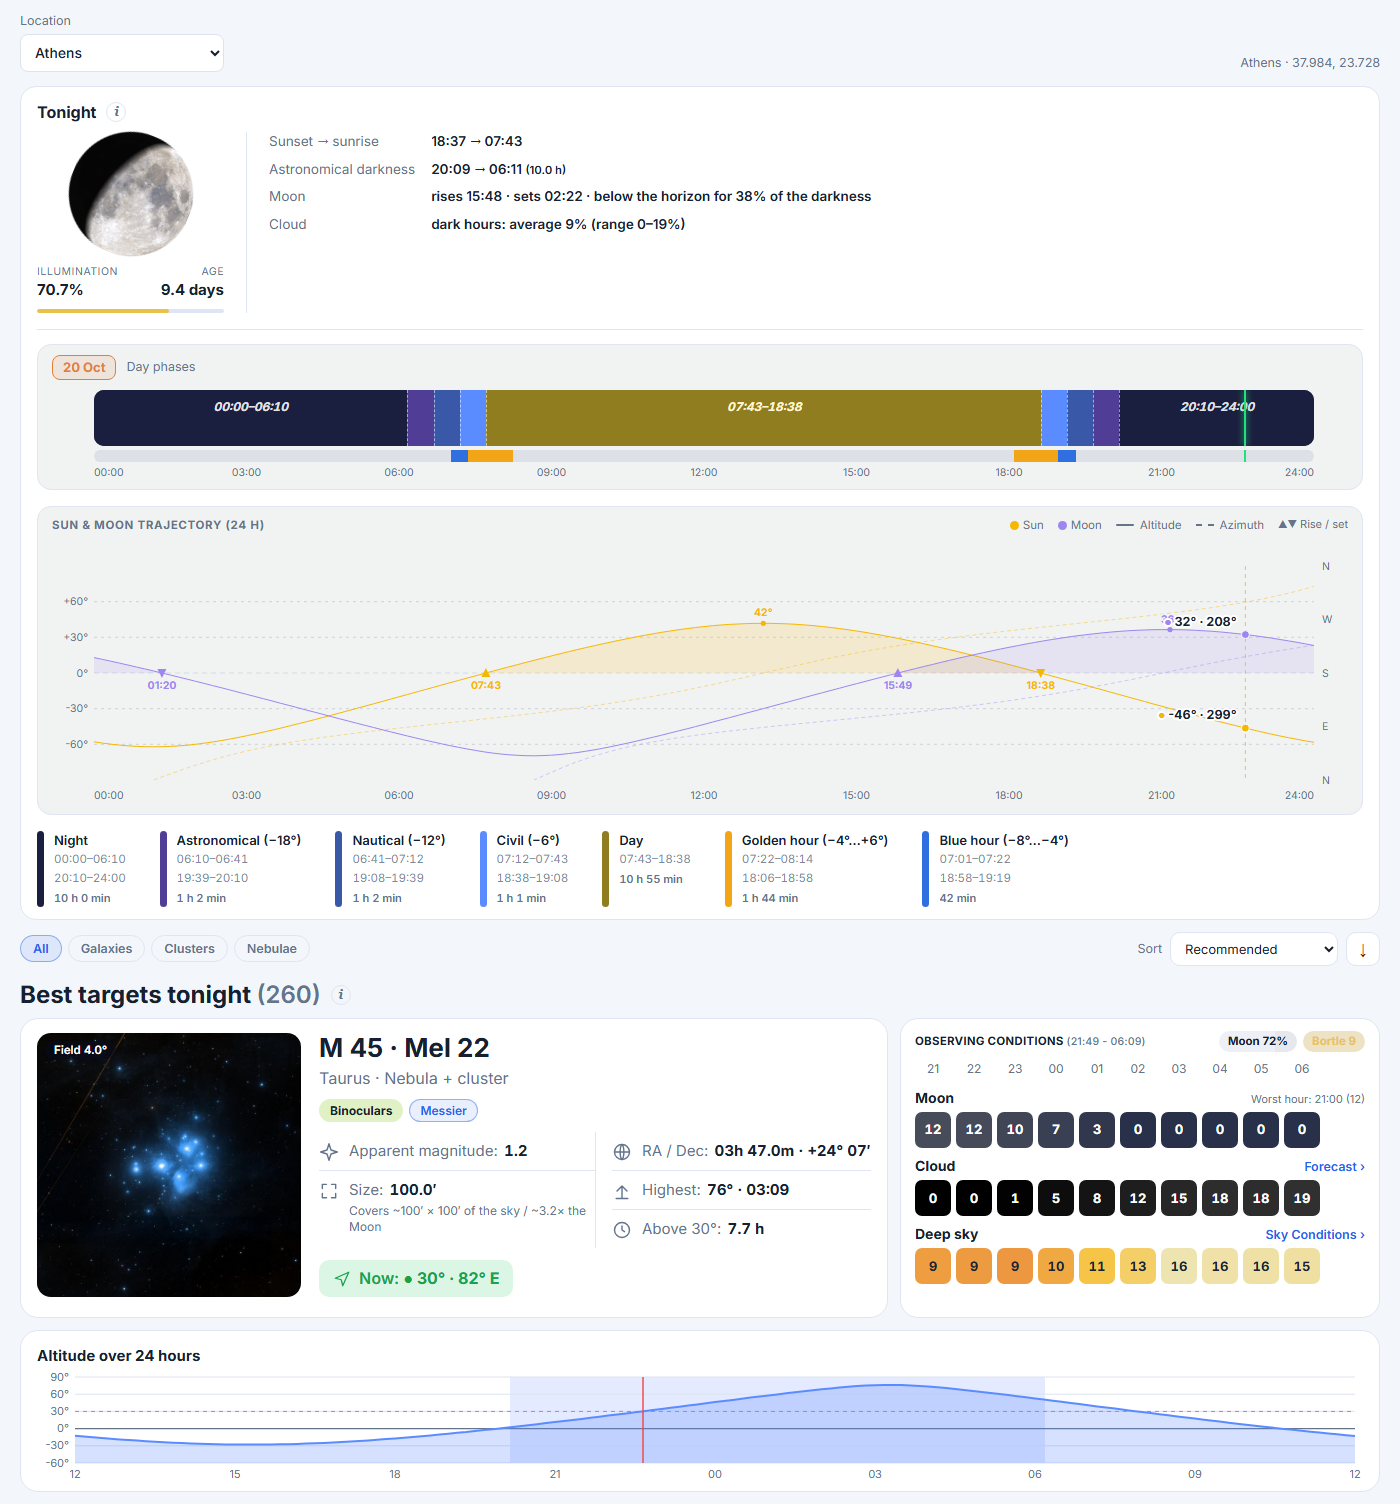
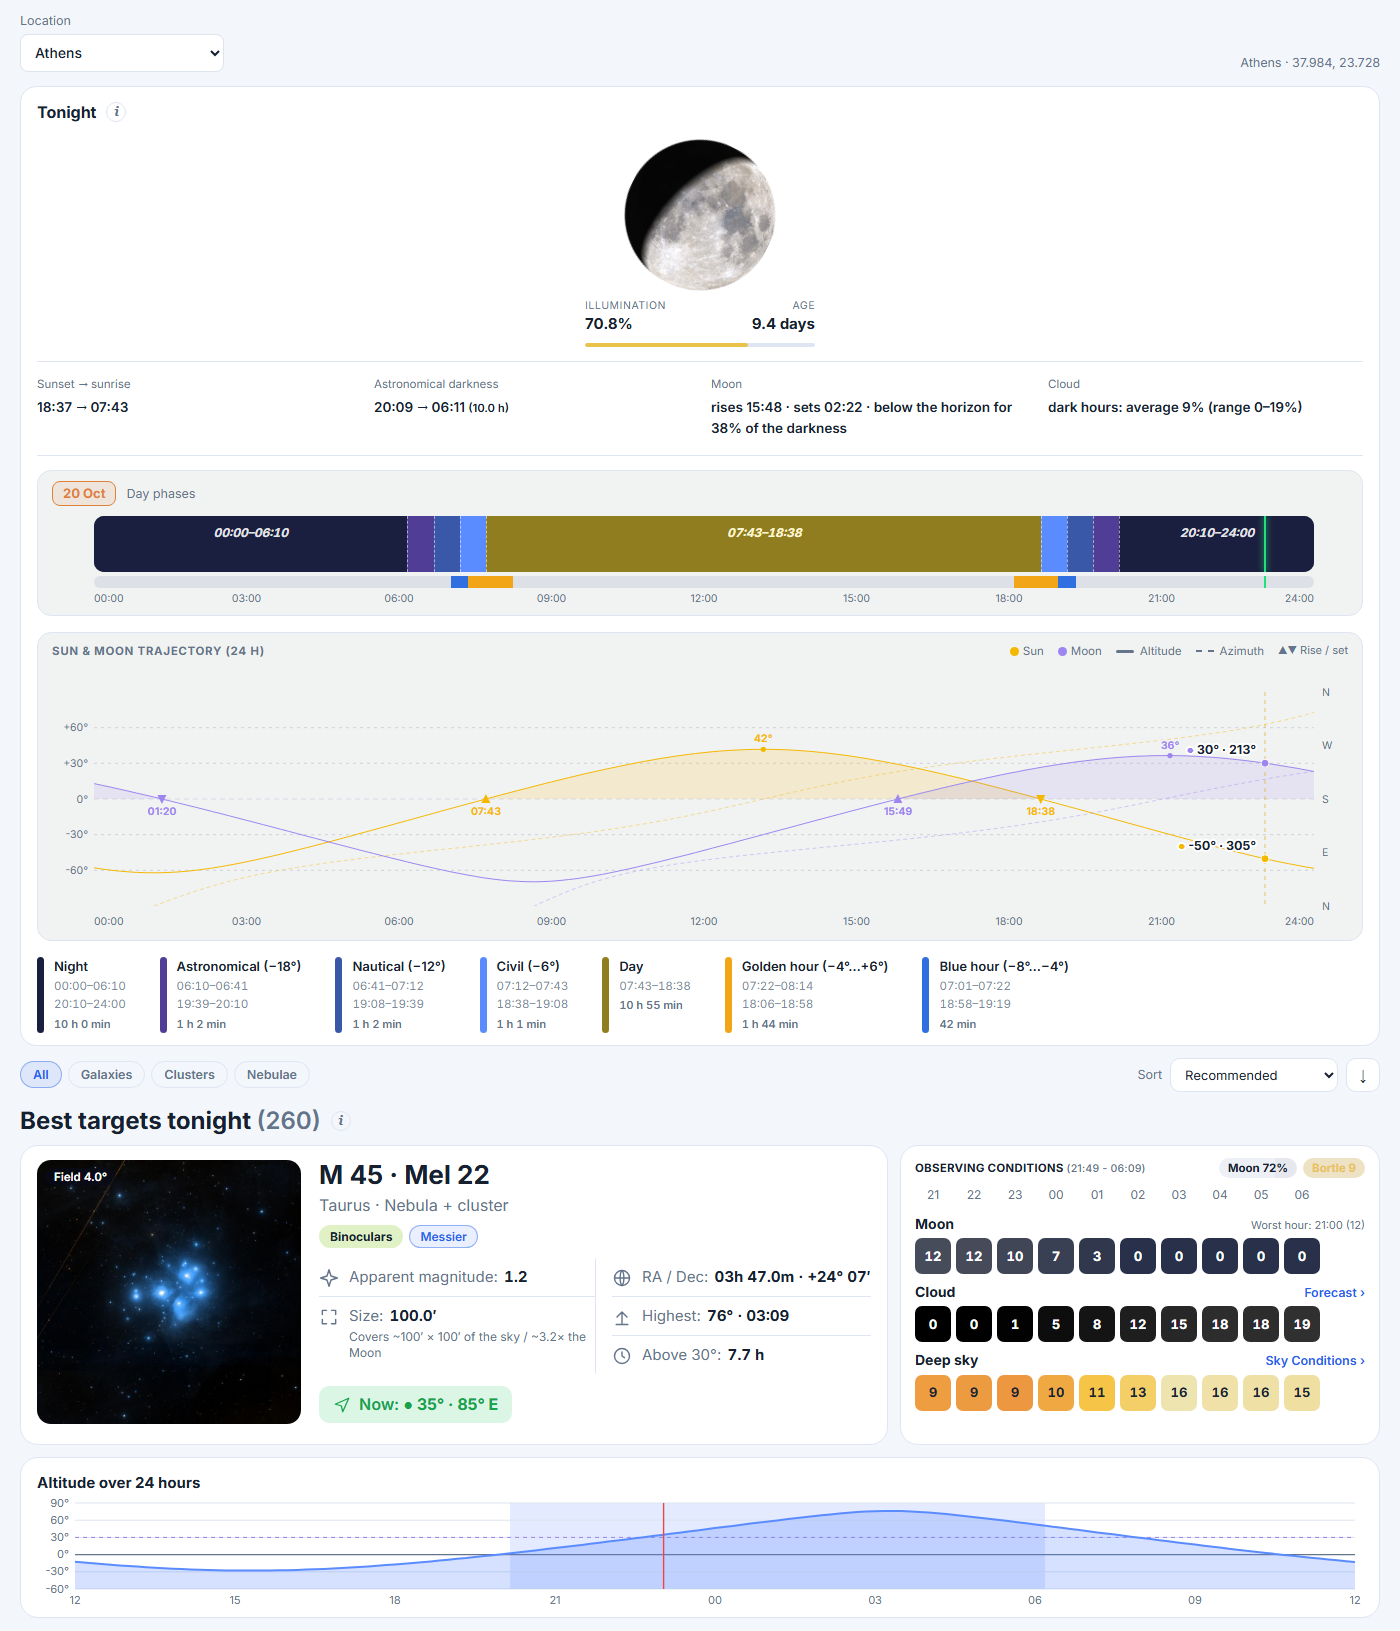
Tonight card: Moon alone in the middle, facts in a row underneath

diff --git a/js/dso.js b/js/dso.js
@@ -248,12 +248,12 @@ const Dso = (() => {
     }).join('');
     box.innerHTML = `<section class="card dso-sum"><div class="dso-h"><h2>${esc(t('dso.night.title'))}</h2>${infoBtn('night')}</div>
 <div class="sum-top"><div class="mw">${moonWidget(loc)}</div>
-        <dl>
-          <dt>${esc(t('dso.night.sunlbl'))}</dt><dd>${hm(n.sunset)} → ${hm(n.sunrise)}</dd>
-          <dt>${esc(t(n.partial ? 'dso.night.darkpartial' : 'dso.night.dark'))}</dt><dd>${hm(n.darkStart)} → ${hm(n.darkEnd)} <small>(${((n.darkEnd - n.darkStart) / 3600e3).toFixed(1)} h)</small></dd>
-          <dt>${esc(t('dso.night.moonlbl'))}</dt><dd>${esc(moon)}</dd>
-          <dt>${esc(t('dso.cloudlbl'))}</dt><dd>${esc(cloudTxt)}</dd>
-        </dl></div>${phasesHtml(loc, N.off)}<p class="dso-note" data-note="night" hidden>${t('dso.night.note')}</p></section>
+        <div class="sum-info">
+          <div><span>${esc(t('dso.night.sunlbl'))}</span><b>${hm(n.sunset)} → ${hm(n.sunrise)}</b></div>
+          <div><span>${esc(t(n.partial ? 'dso.night.darkpartial' : 'dso.night.dark'))}</span><b>${hm(n.darkStart)} → ${hm(n.darkEnd)} <small>(${((n.darkEnd - n.darkStart) / 3600e3).toFixed(1)} h)</small></b></div>
+          <div><span>${esc(t('dso.night.moonlbl'))}</span><b>${esc(moon)}</b></div>
+          <div><span>${esc(t('dso.cloudlbl'))}</span><b>${esc(cloudTxt)}</b></div>
+        </div></div>${phasesHtml(loc, N.off)}<p class="dso-note" data-note="night" hidden>${t('dso.night.note')}</p></section>
       <div class="dso-bar"><div class="dso-cats" id="dsoCats">${cats.map((k) => `<button type="button" class="chip${S.cat === k ? ' on' : ''}" data-cat="${k}">${esc(t('dso.cat.' + k))}</button>`).join('')}</div>
         <div class="dso-sort"><label><span>${esc(t('dso.sort'))}</span><select id="dsoSort" title="${esc(t('dso.sort.help'))}">${['score', 'now', 'alt', 'size', 'mag'].map((k) => `<option value="${k}"${S.sort === k ? ' selected' : ''}>${esc(t('dso.sort.' + k))}</option>`).join('')}</select></label>
           <button type="button" id="dsoRev" class="chip" title="${esc(t('dso.sort.rev'))}" aria-label="${esc(t('dso.sort.rev'))}">${S.rev ? '↑' : '↓'}</button></div></div>

diff --git a/css/style.css b/css/style.css
@@ -1021,3 +1021,12 @@ select, input[type=text], input[type=number], input[type=search] { font: inherit
 .mw-st b { display: block; font-size: 15px; letter-spacing: 0; text-transform: none; color: var(--d-text, var(--text)); font-weight: 700; } .mw-st span:last-child { text-align: right; }
 .mw-bar { width: 100%; height: 4px; border-radius: 3px; background: var(--d-line); overflow: hidden; } .mw-bar i { display: block; height: 100%; background: #e9c24a; border-radius: 3px; }
 @media (max-width: 700px) { .sum-top { grid-template-columns: 1fr; gap: 14px; } .sum-top .mw { padding: 0 0 14px; border-right: 0; border-bottom: 1px solid var(--d-line); } }
+
+/* Tonight card, final: the Moon alone in the middle, the facts in a row underneath */
+.sum-top { display: block; }
+.sum-top .mw { border: 0; padding: 0 0 14px; margin: 0 auto; width: 230px; }
+.mw-cv { width: 150px; height: 150px; }
+.sum-info { display: grid; grid-template-columns: repeat(4, minmax(0, 1fr)); gap: 10px 22px; padding-top: 14px; border-top: 1px solid var(--d-line); }
+.sum-info span { display: block; font-size: 11.5px; color: var(--d-muted); margin-bottom: 3px; } .sum-info b { font-size: 13.5px; font-weight: 600; line-height: 1.35; }
+@media (max-width: 900px) { .sum-info { grid-template-columns: repeat(2, minmax(0, 1fr)); } }
+@media (max-width: 520px) { .sum-info { grid-template-columns: 1fr; } }

diff --git a/index.html b/index.html
@@ -9,7 +9,7 @@
 <link rel="preconnect" href="https://fonts.googleapis.com"><link rel="preconnect" href="https://fonts.gstatic.com" crossorigin>
 <link rel="stylesheet" href="https://fonts.googleapis.com/css2?family=Inter:wght@400;500;600;700&display=swap&subset=greek">
 <link rel="stylesheet" href="https://unpkg.com/leaflet@1.9.4/dist/leaflet.css">
-<link rel="stylesheet" href="css/style.css?v=20261135">
+<link rel="stylesheet" href="css/style.css?v=20261136">
 </head>
 <body>
 <header class="topbar">
@@ -252,11 +252,11 @@
 <footer data-i18n-html="footer.html"></footer>
 
 <script src="https://unpkg.com/leaflet@1.9.4/dist/leaflet.js"></script>
-<script src="js/i18n.js?v=20261135"></script>
-<script src="js/icons.js?v=20261135"></script>
-<script src="js/app.js?v=20261135"></script>
-<script src="js/astro.js?v=20261135"></script>
-<script src="js/sunset.js?v=20261135"></script>
-<script src="js/dso.js?v=20261135"></script>
+<script src="js/i18n.js?v=20261136"></script>
+<script src="js/icons.js?v=20261136"></script>
+<script src="js/app.js?v=20261136"></script>
+<script src="js/astro.js?v=20261136"></script>
+<script src="js/sunset.js?v=20261136"></script>
+<script src="js/dso.js?v=20261136"></script>
 </body>
 </html>
